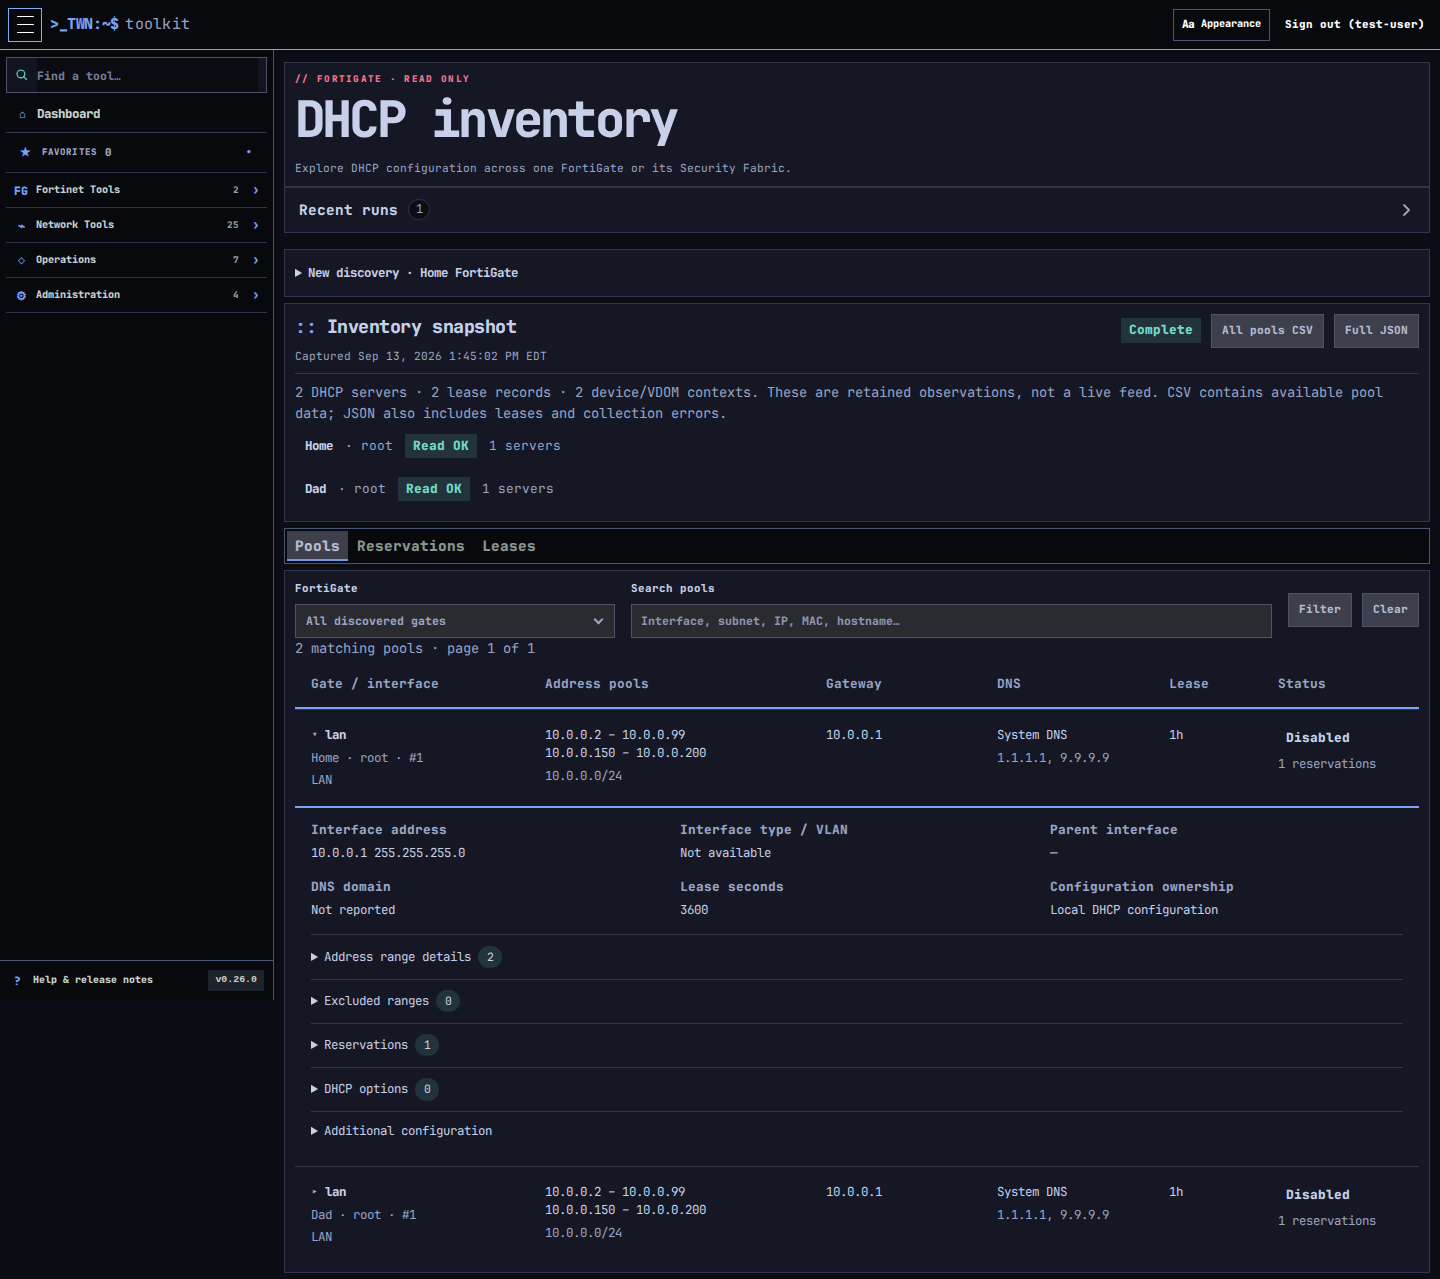
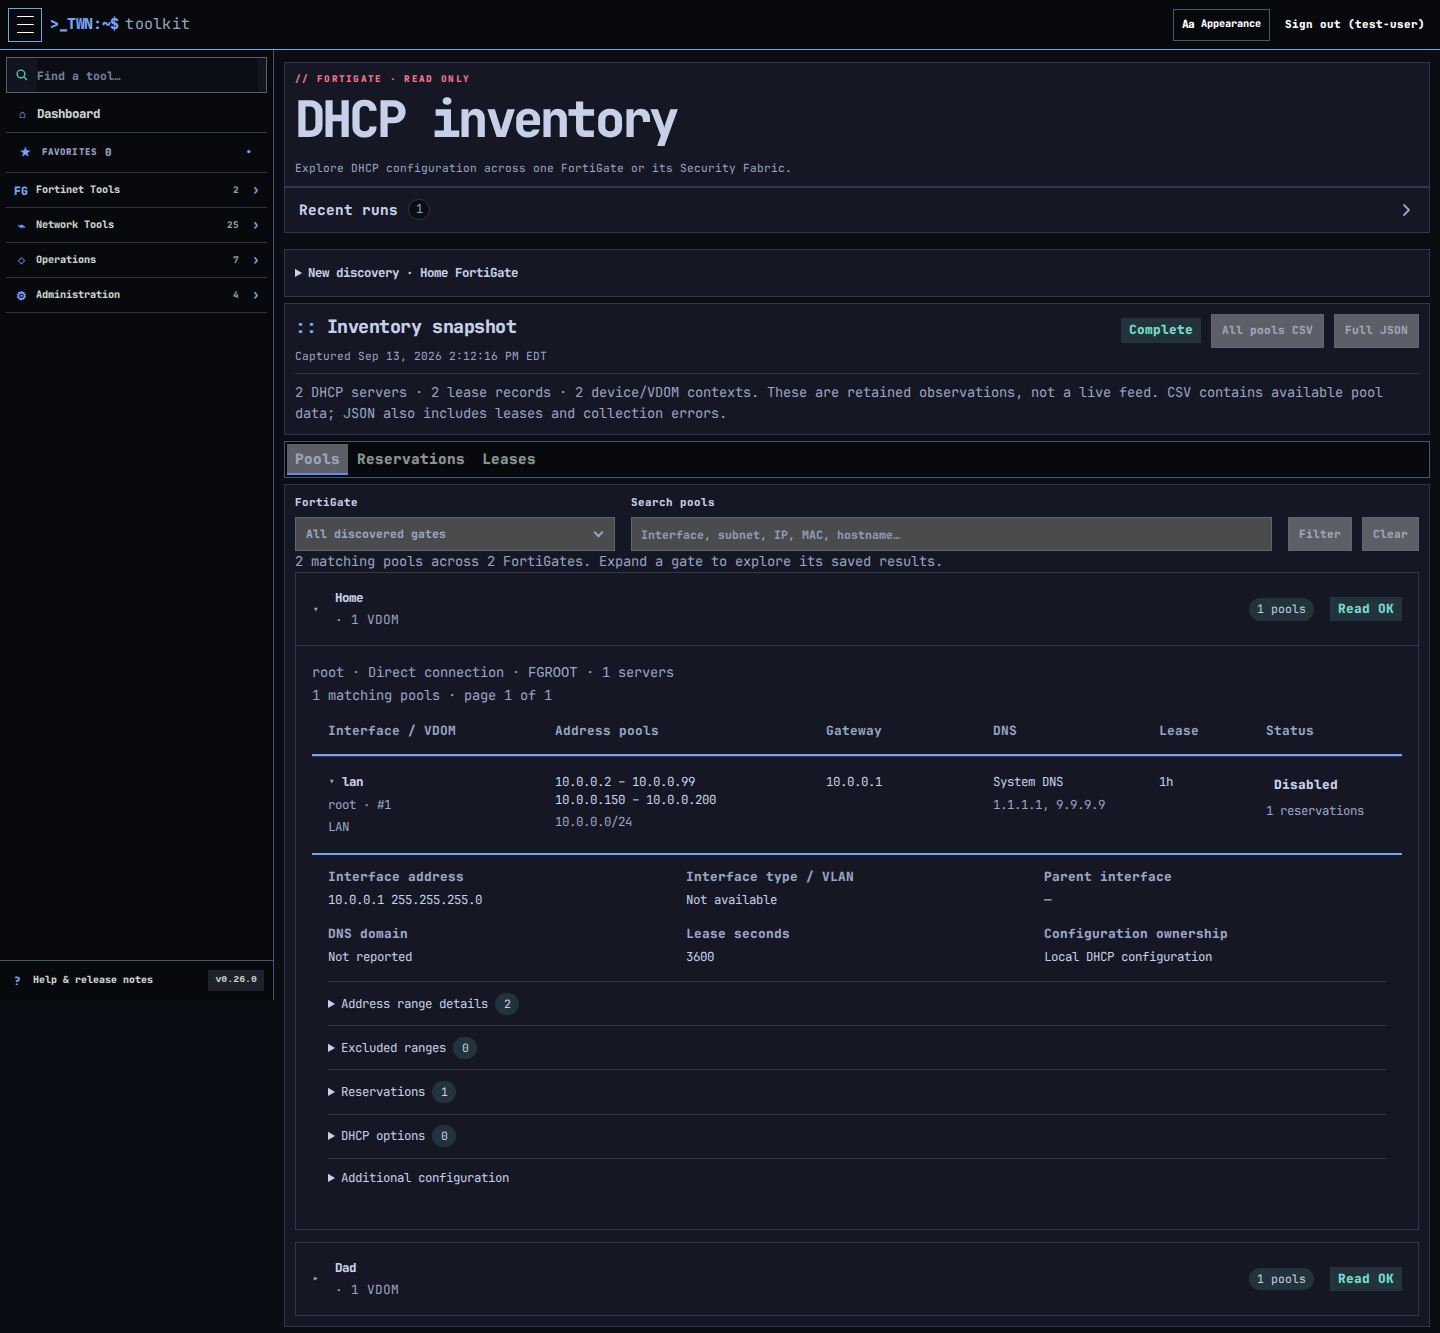
Group DHCP inventory into expandable FortiGate boxes

diff --git a/twn_toolkit/templates/fortigate_dhcp.html b/twn_toolkit/templates/fortigate_dhcp.html
@@ -22,9 +22,7 @@
 {% endcall %}
 <p class="field-note">{{ data.scopes|length }} DHCP servers · {{ data.leases|length }} lease records · {{ data.devices|length }} device/VDOM contexts. These are retained observations, not a live feed. CSV contains available pool data; JSON also includes leases and collection errors.</p>
 {% if data.recording_warning %}<p class="message error">{{ data.recording_warning }}</p>{% endif %}
-<div class="dhcp-device-list">
-{% for d in data.devices %}<details><summary><strong>{{ d.hostname }}</strong><span>{{ d.model }} · {{ d.vdom }}</span><span class="pill {{ 'warning' if d.errors else 'success' }}">{{ 'Incomplete' if d.errors else 'Read OK' }}</span><span>{{ (d.scope_count|string) ~ ' servers' if d.get('configuration_read', true) else 'Server count unavailable' }}</span></summary><div class="dhcp-detail-body"><p>{{ 'Via Fabric root' if d.via_fabric else 'Direct connection' }} · <code>{{ d.serial }}</code></p>{% for e in d.errors %}<p class="message warning">{{ e }}</p>{% endfor %}</div></details>{% endfor %}
-</div>
+
 </section>
 {{ workspace_tabs('DHCP views', [dict(label='Pools',href=url_for('fortigate_dhcp',job=diagnostic_job.id,view='pools',device=device,q=q),active=view=='pools'),dict(label='Reservations',href=url_for('fortigate_dhcp',job=diagnostic_job.id,view='reservations',device=device,q=q),active=view=='reservations'),dict(label='Leases',href=url_for('fortigate_dhcp',job=diagnostic_job.id,view='leases',device=device,q=q),active=view=='leases')]) }}
 <section class="panel">
@@ -34,14 +32,22 @@
 <label>Search {{ view }}<input type="search" name="q" value="{{ q }}" placeholder="Interface, subnet, IP, MAC, hostname…" maxlength="200"></label>
 <div class="button-row"><button type="submit" class="secondary">Filter</button><a class="button-link secondary" href="{{ url_for('fortigate_dhcp',job=diagnostic_job.id,view=view) }}">Clear</a></div>
 </form>
+<p class="field-note">{{ total }} matching {{ view }} across {{ gates|length }} FortiGate{{ 's' if gates|length != 1 }}. Expand a gate to explore its saved results.</p>
+<div class="dhcp-gates">
+{% for gate in gates %}
+<details class="dhcp-gate" data-url="{{ url_for('fortigate_dhcp',job=diagnostic_job.id,view=view,device=gate.serial,q=q) }}" {% if device %}open{% endif %}>
+<summary><span class="dhcp-gate-name"><strong>{{ gate.hostname }}</strong><small>{{ gate.model }} · {{ gate.contexts|length }} VDOM{{ 's' if gate.contexts|length != 1 }}</small></span><span class="count-badge">{{ gate.count }} {{ view }}</span>{% set health = namespace(incomplete=false) %}{% for context in gate.contexts %}{% if context.errors %}{% set health.incomplete = true %}{% endif %}{% endfor %}<span class="pill {{ 'warning' if health.incomplete else 'success' }}">{{ 'Incomplete' if health.incomplete else 'Read OK' }}</span></summary>
+<div class="dhcp-gate-body" {% if device %}data-loaded="true"{% endif %}>
+{% if device %}
+<div class="dhcp-gate-contexts">{% for d in gate.contexts %}<p class="field-note">{{ d.vdom }} · {{ 'Via Fabric root' if d.via_fabric else 'Direct connection' }} · <code>{{ d.serial }}</code> · {{ (d.scope_count|string) ~ ' servers' if d.get('configuration_read', true) else 'Server count unavailable' }}</p>{% for e in d.errors %}<p class="message warning">{{ e }}</p>{% endfor %}{% endfor %}</div>
 <p class="field-note">{{ total }} matching {{ view }} · page {{ page }} of {{ [1, ((total + 49) // 50)]|max }}</p>
 {% if view == 'pools' %}
 <div class="dhcp-pools">
-<div class="dhcp-pool-head" aria-hidden="true"><span>Gate / interface</span><span>Address pools</span><span>Gateway</span><span>DNS</span><span>Lease</span><span>Status</span></div>
+<div class="dhcp-pool-head" aria-hidden="true"><span>Interface / VDOM</span><span>Address pools</span><span>Gateway</span><span>DNS</span><span>Lease</span><span>Status</span></div>
 {% for s in entries %}
 <details class="dhcp-pool">
 <summary>
-<div><strong>{{ s.interface or 'Interface not reported' }}</strong><small>{{ s.device }} · {{ s.vdom }} · #{{ s.id }}</small>{% if s.interface_details.alias %}<small>{{ s.interface_details.alias }}</small>{% endif %}</div>
+<div><strong>{{ s.interface or 'Interface not reported' }}</strong><small>{{ s.vdom }} · #{{ s.id }}</small>{% if s.interface_details.alias %}<small>{{ s.interface_details.alias }}</small>{% endif %}</div>
 <div><span class="dhcp-mobile-label">Address pools</span>{% for r in s['ip-range'] %}<span class="dhcp-range">{{ r['start-ip'] }} – {{ r['end-ip'] }}</span>{% else %}<span>No address ranges reported</span>{% endfor %}<small>{% if s.subnets %}{{ s.subnets|join(', ') }}{% else %}Mask {{ s.netmask|default('not reported') }}{% endif %}</small></div>
 <div><span class="dhcp-mobile-label">Gateway</span>{{ s['default-gateway']|default('Not reported') }}</div>
 <div><span class="dhcp-mobile-label">DNS</span>{% if s['dns-service'] == 'specify' %}{% for k in ['dns-server1','dns-server2','dns-server3','dns-server4'] %}{% if s.get(k) and s[k] != '0.0.0.0' %}<span class="dhcp-range">{{ s[k] }}</span>{% endif %}{% endfor %}{% elif s['dns-service'] == 'local' %}Interface DNS<small>{{ (s.interface_details.ip|default('')).split(' ')[0] or 'Address unavailable' }}</small>{% elif s['dns-service'] == 'default' %}System DNS{% else %}{{ s['dns-service']|default('Not reported') }}{% endif %}{% if s.get('system_dns') %}<small>{{ s.system_dns|join(', ') }}</small>{% endif %}</div>
@@ -68,10 +74,16 @@
 {% else %}<tr><td colspan="6">No matching {{ view }}. Check collection status above for unavailable data.</td></tr>{% endfor %}
 </tbody></table></div>
 {% endif %}
-<div class="button-row">{% if page > 1 %}<a class="button-link secondary" href="{{ url_for('fortigate_dhcp',job=diagnostic_job.id,view=view,device=device,q=q,page=page-1) }}">Previous</a>{% endif %}{% if page * 50 < total %}<a class="button-link secondary" href="{{ url_for('fortigate_dhcp',job=diagnostic_job.id,view=view,device=device,q=q,page=page+1) }}">Next</a>{% endif %}</div>
+<div class="button-row dhcp-pagination">{% if page > 1 %}<a class="button-link secondary" href="{{ url_for('fortigate_dhcp',job=diagnostic_job.id,view=view,device=device,q=q,page=page-1) }}">Previous</a>{% endif %}{% if page * 50 < total %}<a class="button-link secondary" href="{{ url_for('fortigate_dhcp',job=diagnostic_job.id,view=view,device=device,q=q,page=page+1) }}">Next</a>{% endif %}</div>
+{% else %}<a class="button-link secondary dhcp-load-gate" href="{{ url_for('fortigate_dhcp',job=diagnostic_job.id,view=view,device=gate.serial,q=q) }}">View {{ gate.hostname }} {{ view }}</a>{% endif %}
+</div>
+</details>
+{% else %}{{ empty_state('No matching ' ~ view, 'Check filters and collection status. An incomplete read does not establish that no DHCP servers exist.') }}{% endfor %}
+</div>
 </section>
 {% elif not diagnostic_job %}
 {{ empty_state('Choose a FortiGate to discover its DHCP configuration', 'Fabric discovery includes downstream gates through the selected connection. No firewall settings are changed.') }}
 {% endif %}
 <script src="{{ url_for('static',filename='diagnostic-job.js') }}"></script>
+<script src="{{ url_for('static',filename='fortigate-dhcp.js') }}" defer></script>
 {% endblock %}

diff --git a/twn_toolkit/static/fortigate-dhcp.css b/twn_toolkit/static/fortigate-dhcp.css
@@ -1,6 +1,6 @@
 .dhcp-discovery,.dhcp-filters {display:grid;grid-template-columns:2fr 1.5fr 1.5fr auto;gap:1rem;align-items:start}
 .dhcp-filters {grid-template-columns:1fr 2fr auto}
-.dhcp-discovery .button-row,.dhcp-filters .button-row {align-self:center}
+.dhcp-discovery .button-row {align-self:center}
 .dhcp-pool-head,.dhcp-pool>summary {display:grid;grid-template-columns:minmax(11rem,1.4fr) minmax(15rem,1.7fr) minmax(8rem,1fr) minmax(8rem,1fr) minmax(5rem,.6fr) minmax(7rem,.8fr);gap:1rem;padding:1rem;align-items:start}
 .dhcp-pools {overflow-x:auto}
 .dhcp-pool-head {font-size:.8rem;color:var(--muted);font-weight:600}
@@ -9,7 +9,7 @@
 .dhcp-pool>summary::-webkit-details-marker {display:none}
 .dhcp-pool>summary>div:first-child strong::before {content:'▸ ';color:var(--muted)}
 .dhcp-pool[open]>summary>div:first-child strong::before {content:'▾ '}
-.dhcp-pool>summary:hover,.dhcp-device-list summary:hover {background:var(--surface-subtle)}
+.dhcp-pool>summary:hover {background:var(--surface-subtle)}
 .dhcp-pool small,.dhcp-muted {display:block;color:var(--muted);margin-top:.3rem;font-size:.78rem}
 .dhcp-range {display:block;overflow-wrap:anywhere}
 .dhcp-detail-body {padding:1rem;overflow-wrap:anywhere}
@@ -18,8 +18,6 @@
 .dhcp-facts strong {color:var(--muted);font-size:.8rem;margin-bottom:.3rem}
 .dhcp-subsection {padding:.65rem 0;border-top:1px solid var(--line)}
 .dhcp-subsection summary {cursor:pointer}
-.dhcp-device-list summary {display:flex;align-items:center;flex-wrap:wrap;gap:.75rem;padding:.6rem;cursor:pointer}
-.dhcp-device-list summary>span {font-size:.8rem;color:var(--muted)}
 .dhcp-mobile-label {display:none}
 @media(max-width:1100px) {.dhcp-pool-head,.dhcp-pool>summary {grid-template-columns:minmax(10rem,1fr) minmax(14rem,1.5fr) minmax(8rem,1fr) minmax(8rem,1fr) 6rem 7rem}.dhcp-discovery {grid-template-columns:1fr 1fr}}
 @media(max-width:650px) {.dhcp-pool-head {display:none}.dhcp-pool>summary {grid-template-columns:1fr 1fr;gap:1rem}.dhcp-pool>summary>div:first-child {grid-column:1/-1}.dhcp-mobile-label {display:block;font-size:.75rem;color:var(--muted);margin-bottom:.25rem}.dhcp-discovery,.dhcp-filters,.dhcp-facts {grid-template-columns:1fr}.dhcp-pools {overflow:visible}}
@@ -28,3 +26,19 @@
 .dhcp-new-discovery[open]>summary {margin-bottom:1rem}
 
 .dhcp-pool>summary>div {min-width:0;overflow-wrap:anywhere}
+
+/* Align actions with the controls, excluding their labels. */
+.dhcp-filters .button-row {align-self:end;min-height:var(--ui-field-height);margin:0;align-items:center}
+.dhcp-gates {display:grid;gap:.75rem}
+.dhcp-gate {border:1px solid var(--line);border-radius:var(--radius, 8px);min-width:0}
+.dhcp-gate>summary {display:flex;align-items:center;gap:1rem;padding:1rem;cursor:pointer;list-style:none}
+.dhcp-gate>summary::-webkit-details-marker {display:none}
+.dhcp-gate>summary::before {content:'▸';color:var(--muted)}
+.dhcp-gate[open]>summary::before {content:'▾'}
+.dhcp-gate>summary:hover {background:var(--surface-subtle)}
+.dhcp-gate-name {flex:1;min-width:0;overflow-wrap:anywhere}
+.dhcp-gate-name strong,.dhcp-gate-name small {display:block}
+.dhcp-gate-name small {color:var(--muted);font-size:.8rem;margin-top:.25rem}
+.dhcp-gate-body {border-top:1px solid var(--line);padding:1rem;min-width:0}
+.dhcp-gate-contexts .field-note:first-child {margin-top:0}
+@media(max-width:650px) {.dhcp-gate>summary {flex-wrap:wrap;gap:.5rem}.dhcp-gate-name {flex-basis:75%}.dhcp-gate-body {padding:.65rem}}

diff --git a/twn_toolkit/static/fortigate-dhcp.js b/twn_toolkit/static/fortigate-dhcp.js
@@ -1,0 +1,44 @@
+/* Load saved gate results only on demand. No polling or firewall requests. */
+(() => {
+  async function load(gate, url) {
+    const body = gate.querySelector('.dhcp-gate-body');
+    if (body.getAttribute('aria-busy') === 'true') return;
+    body.setAttribute('aria-busy', 'true');
+    const status = document.createElement('p');
+    status.className = 'field-note';
+    status.setAttribute('role', 'status');
+    status.textContent = 'Loading saved results…';
+    body.prepend(status);
+    try {
+      const response = await fetch(url, {headers: {'Accept': 'text/html'}});
+      if (!response.ok || response.redirected) throw new Error('Unavailable');
+      const documentCopy = new DOMParser().parseFromString(await response.text(), 'text/html');
+      const results = documentCopy.querySelector('.dhcp-gate-body[data-loaded="true"]');
+      if (!results) throw new Error('Unavailable');
+      body.replaceChildren(...results.childNodes);
+      body.dataset.loaded = 'true';
+    } catch (_) {
+      status.textContent = 'Could not load saved results. Open the gate to try again.';
+      if (!body.querySelector('.dhcp-load-gate')) {
+        const retry = document.createElement('a');
+        retry.className = 'button-link secondary dhcp-load-gate';
+        retry.href = url;
+        retry.textContent = 'Open gate';
+        body.append(retry);
+      }
+    } finally {
+      body.removeAttribute('aria-busy');
+    }
+  }
+  document.querySelectorAll('.dhcp-gate').forEach(gate => {
+    gate.addEventListener('toggle', () => {
+      if (gate.open && !gate.querySelector('.dhcp-gate-body').dataset.loaded) load(gate, gate.dataset.url);
+    });
+    gate.addEventListener('click', event => {
+      const link = event.target.closest('.dhcp-pagination a');
+      if (!link || event.ctrlKey || event.metaKey || event.shiftKey || event.altKey || event.button !== 0) return;
+      event.preventDefault();
+      load(gate, link.href);
+    });
+  });
+})();

diff --git a/tests/test_fortigate_dhcp.py b/tests/test_fortigate_dhcp.py
@@ -182,3 +182,43 @@ def test_current_tool_permission_required_for_all_job_routes(tmp_path):
         assert client.get(url).status_code==403
     assert client.post('/fortigate/dhcp/jobs/fake/cancel').status_code==403
     assert client.post('/fortigate/dhcp').status_code==403
+
+
+def test_fleet_overview_loads_one_gate_at_a_time_and_pages_within_gate(browser):
+    from copy import deepcopy
+    from twn_toolkit.diagnostic_jobs import DiagnosticJobStore
+    sample = collect_inventory(Client(), fabric=True)
+    snapshot = {**sample, 'devices': [], 'scopes': [], 'leases': []}
+    for index in range(20):
+        serial = f'FG{index:04d}'
+        snapshot['devices'].append({**sample['devices'][0], 'serial': serial,
+                                    'hostname': f'Site {index}', 'scope_count': 61})
+        for pool in range(61):
+            scope = deepcopy(sample['scopes'][0])
+            scope.update(serial=serial, device=f'Site {index}', id=pool,
+                         interface=f'network-{pool}')
+            snapshot['scopes'].append(scope)
+        snapshot['leases'].append({**sample['leases'][0], 'serial': serial, 'device': f'Site {index}'})
+    response = browser.post('/fortigate/dhcp', data={'profile': 'Lab', 'scope': 'fabric'})
+    store = DiagnosticJobStore(browser.application.instance_path)
+    job = store.claim()
+    assert store.finish(job['id'], job['token'], [], snapshot)
+    for view in ('pools', 'reservations', 'leases'):
+        url = response.location + '&view=' + view
+        overview = browser.get(url).get_data(as_text=True)
+        assert overview.count('class="dhcp-gate"') == 20
+        assert 'class="dhcp-pool"' not in overview
+        assert 'data-loaded="true"' not in overview
+        selected = browser.get(url + '&device=FG0007').get_data(as_text=True)
+        assert selected.count('class="dhcp-gate"') == 1
+        assert 'data-loaded="true"' in selected
+    first = browser.get(response.location + '&device=FG0007').get_data(as_text=True)
+    assert first.count('class="dhcp-pool"') == 50
+    second = browser.get(response.location + '&device=FG0007&page=2').get_data(as_text=True)
+    assert second.count('class="dhcp-pool"') == 11
+    assert 'network-60' in second and 'network-0</strong>' not in second
+    matches = browser.get(response.location + '&q=network-60').get_data(as_text=True)
+    assert matches.count('class="dhcp-gate"') == 20
+    assert '20 matching pools' in matches
+    assert '1 matching pools' in browser.get(response.location + '&q=network-60&device=FG0007').get_data(as_text=True)
+    assert 'No matching pools' in browser.get(response.location + '&device=unknown').get_data(as_text=True)

diff --git a/twn_toolkit/fortigate_dhcp_routes.py b/twn_toolkit/fortigate_dhcp_routes.py
@@ -60,21 +60,32 @@ def register_dhcp_routes(app, profiles):
         q = request.args.get('q', '').strip()[:200]
         device = request.args.get('device', '')
         entries = []
+        gates = {}
         if data:
             entries = data['leases'] if view == 'leases' else data['scopes']
             if view == 'reservations':
                 entries = [{**r, 'device': s['device'], 'serial': s['serial'], 'vdom': s['vdom'],
                             'interface': s.get('interface', ''), 'server_id': s.get('id')}
                            for s in data['scopes'] for r in s['reserved-address']]
+            for context in data['devices']:
+                gate = gates.setdefault(context['serial'], dict(serial=context['serial'],
+                    hostname=context['hostname'], model=context['model'], contexts=[], count=0))
+                gate['contexts'].append(context)
             entries = [s for s in entries if (not device or s['serial']==device) and
                        (not q or q.casefold() in json.dumps(s, ensure_ascii=False).casefold())]
+            for entry in entries:
+                if entry['serial'] in gates:
+                    gates[entry['serial']]['count'] += 1
+            gates = {serial: gate for serial, gate in gates.items()
+                     if (not device or serial == device) and (not q or gate['count'])}
         total = len(entries)
         try:
             page = max(1, min(int(request.args.get('page', 1)), max(1, (total+49)//50)))
         except ValueError:
             page = 1
         response = make_response(render_template('fortigate_dhcp.html', page_title='DHCP inventory',
-            profiles=profiles.all(), selected_name=selected, data=data, entries=entries[(page-1)*50:page*50],
+            profiles=profiles.all(), selected_name=selected, data=data, gates=list(gates.values()),
+            entries=entries[(page-1)*50:page*50] if device else [],
             view=view, q=q, device=device, page=page, total=total, lease_duration=lease_duration,
             scope=request.values.get('scope', 'fabric' if config.get('fabric') else 'single'),
             vdom=request.values.get('vdom', config.get('vdom', '')),

diff --git a/docs/fortigate-dhcp.md b/docs/fortigate-dhcp.md
@@ -15,6 +15,10 @@ by starting another discovery; completed inventories do not poll appliances.
 
 ## Reading results
 
+All three views group results into collapsed FortiGate boxes, identified by hostname,
+with matching counts and collection status. Expand a gate to load its saved results;
+several gates can stay open for comparison. VDOMs remain identified within each gate.
+
 Pools shows every returned DHCP server, including disabled configurations, with
 all address ranges, associated interface, mask, gateway, DNS mode/addresses and
 lease duration. Expand a row for interface address/type/VLAN, domain, exclusions,
@@ -24,7 +28,10 @@ values are shown as configured and must not be confused with the server duration
 
 Reservations and Leases provide separate searchable views. Gate filtering and
 search apply to retained data, not additional appliance reads. Views paginate at
-50 entries. Device/VDOM collection status distinguishes an empty configuration
+50 entries per gate, with paging inside the expanded box. Search spans the entire
+snapshot and shows matching gates, including matches beyond the first page. Opening
+boxes reads saved data only; it does not contact the firewalls. Without JavaScript,
+the View gate link opens the same results as a normal page. Device/VDOM collection status distinguishes an empty configuration
 from missing data. CSV exports the available pools, including nested configuration
 as JSON cells; Full JSON also includes leases, capture time and collection errors.
 Exports contain network/client inventory and omit API tokens and credential fields.
